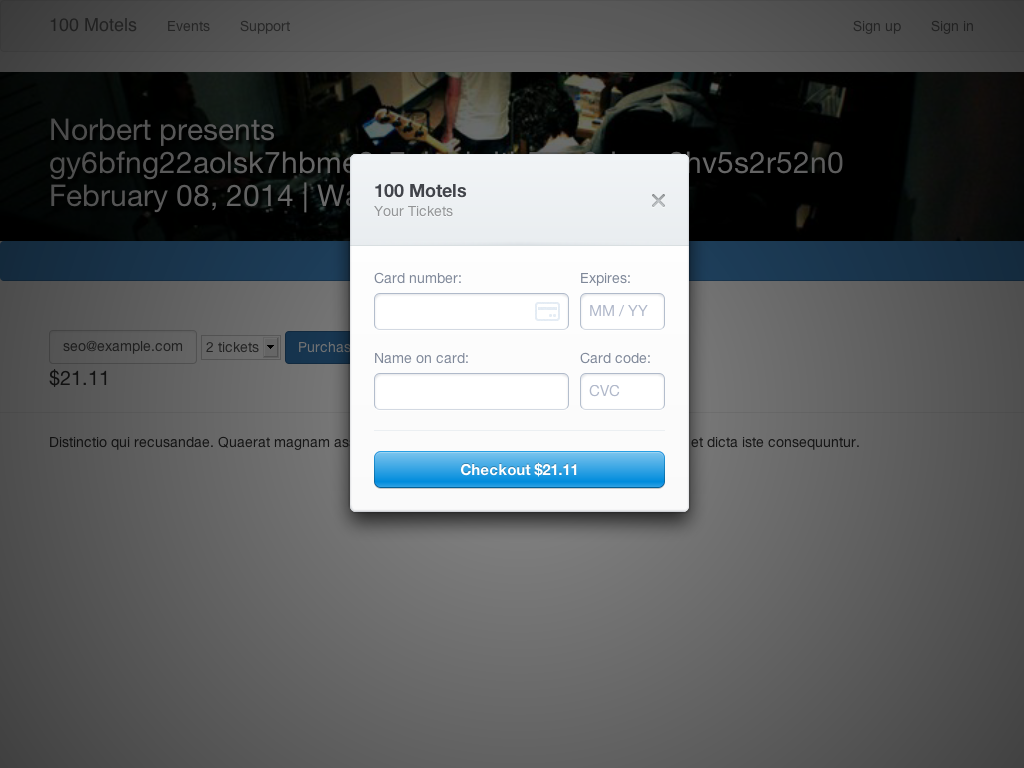
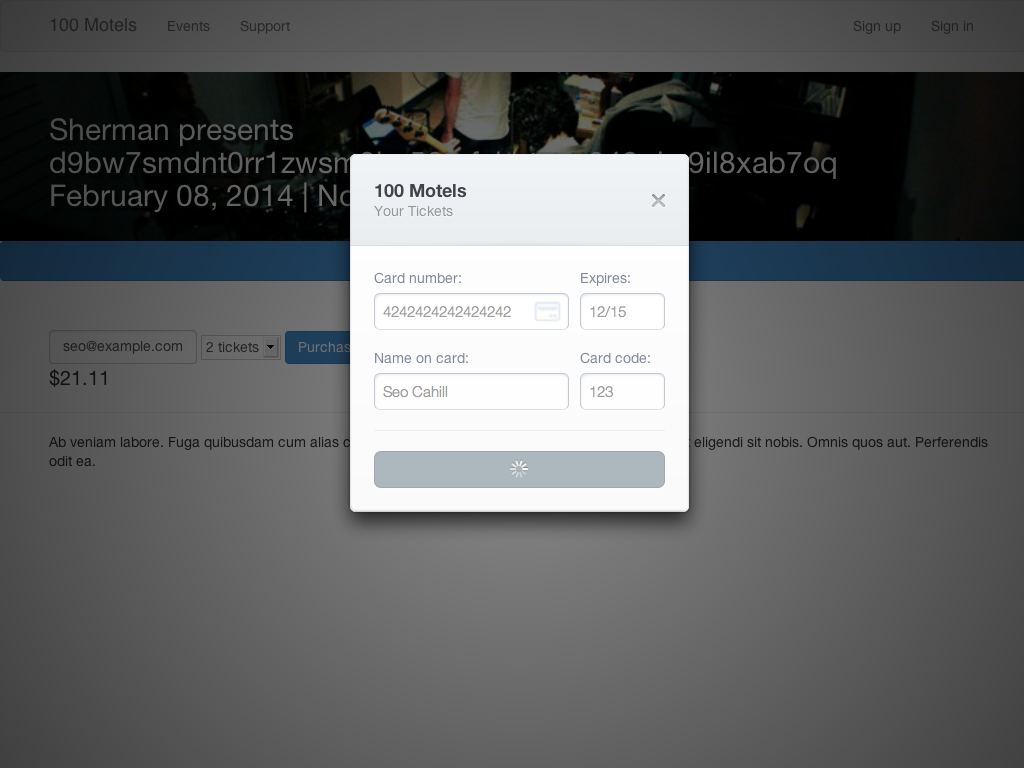
stripe iframe tests slooow but passing

diff --git a/test/features/event_show_test.rb b/test/features/event_show_test.rb
@@ -8,14 +8,6 @@ class EventShowTest < Capybara::Rails::TestCase
     @event = FactoryGirl.create(:event, :live_event, date: "08-02-2014", id: 4)
   end
 
-  test "poltergeist working" do
-    skip
-    Capybara.current_driver = Capybara.javascript_driver
-    visit event_path(@event)
-    page.save_screenshot('screenshot.png')
-    assert_equal current_path, event_path(@event)
-  end
-
   test "visible event by normal admin is visible" do
     visit event_path(@event)
     assert page.has_content?(@event.name), "event name not visible"
@@ -66,26 +58,32 @@ class EventShowTest < Capybara::Rails::TestCase
     select "2", from: "order[quantity]"
     assert page.find(".order-total").has_content?("21.11"), "order total incorrect"
     click_button "Purchase"
-    sleep(5)
-    fill_in "Card number", with: "4242424242424242"
-    fill_in "Expires", with: "12/15"
-    fill_in "Name on card", with: "Seo Cahill"
-    fill_in "Card Code", with: "123"
-    click_button "Checkout $21.11"
-    assert page.has_css?('.alert', text: "Thanks! Please check your email.")
-    assert_equal order_path(Order.last), current_path
+    within_frame(page.find('.stripe_checkout_app')[:name]) do
+      fill_in "Card number", with: "4242424242424242"
+      fill_in "Expires", with: "12/15"
+      fill_in "Name on card", with: "Seo Cahill"
+      fill_in "Card code", with: "123"
+      click_button "Checkout $21.11"
+    end
+    # page.save_screenshot('screenshot.png')
+    sleep 3
+    assert page.has_css?('.alert', text: "Thanks! Please check your email."), "no success message"
+    assert_equal order_path(Order.last), current_path, "didn't redirect to order page"
   end
 
   test "order without email" do
     Capybara.current_driver = Capybara.javascript_driver
     visit event_path(@event)
     click_button "Purchase"
-    fill_in "Card number:", with: "4242424242424242"
-    fill_in "Expires:", with: "12/15"
-    fill_in "Name on card:", with: "Seo Cahill"
-    fill_in "Card Code:", with: "123"
-    click_button "Checkout $10.71"
-    assert page.has_css?('.alert', text: "must provide email address.")
+    within_frame(page.find('.stripe_checkout_app')[:name]) do
+      fill_in "Card number", with: "4242424242424242"
+      fill_in "Expires", with: "12/15"
+      fill_in "Name on card", with: "Seo Cahill"
+      fill_in "Card code", with: "123"
+      click_button "Checkout $10.71"
+    end
+    sleep 3
+    assert page.has_css?('.alert', text: "must provide email address"), "no error message"
   end
 
   test "order with invalid credit card details" do
@@ -95,12 +93,15 @@ class EventShowTest < Capybara::Rails::TestCase
     select "2", from: "order[quantity]"
     assert page.find(".order-total").has_content?("21.11"), "order total incorrect"
     click_button "Purchase"
-    fill_in "Card number:", with: "4000000000000101"
-    fill_in "Expires:", with: "12/15"
-    fill_in "Name on card:", with: "Seo Cahill"
-    fill_in "Card Code:", with: "123"
-    click_button "Checkout $21.11"
-    assert page.has_css?('.alert', text: "The card's security code is invalid.")
+    within_frame(page.find('.stripe_checkout_app')[:name]) do
+      fill_in "Card number", with: "4000000000000101"
+      fill_in "Expires", with: "12/15"
+      fill_in "Name on card", with: "Seo Cahill"
+      fill_in "Card code", with: "123"
+      click_button "Checkout $21.11"
+    end
+    sleep 3
+    assert page.has_css?('.alert', text: "Your card's security code is incorrect.")
   end
 
   test "order pages can be reviewed by event admin only" do

diff --git a/test/models/event_test.rb b/test/models/event_test.rb
@@ -3,6 +3,7 @@ require 'test_helper'
 class EventTest < ActiveSupport::TestCase
   should belong_to(:user)
   should have_many(:orders)
+  should have_many(:tickets).through(:orders)
   should ensure_length_of(:name).is_at_most(50)
   should validate_presence_of(:name)
   should validate_presence_of(:date)
@@ -112,7 +113,12 @@ class EventTest < ActiveSupport::TestCase
   end
 
   test "auto_html soundcloud" do
-    skip 'need to user VCR or fakeweb to fake response, see gem test for details'
+    skip "need to look into gem"
+    event = FactoryGirl.build(:event)
+    VCR.use_cassette('soundcloud_embed') do
+      event.about = 'www.soundcloud.com/creteboom/sets/them-bones-need-oxygen'
+    end
+    assert_equal event.about, '<iframe width="100%" height="166" scrolling="no" frameborder="no" src="https://w.soundcloud.com/player/?url=https%3A//api.soundcloud.com/tracks/104831507"></iframe>'
   end
 
   test "auto_html resposive google map" do
@@ -125,13 +131,4 @@ class EventTest < ActiveSupport::TestCase
     assert_equal "<p><a href=\"http://vukajlija.com\" target=\"_blank\" rel=\"nofollow\">http://vukajlija.com</a></p>\n", event.about_html
   end
 
-  test "defer_events sends notification email" do
-    skip "need to set up form hash"
-    params = {}
-    order = FactoryGirl.create(:order)
-    assert_equal 0, Sidekiq::Extensions::DelayedMailer.jobs.size
-    order.event.defer_event(params)
-    assert_equal 1, Sidekiq::Extensions::DelayedMailer.jobs.size, "Emails not sent"
-    assert_equal event.date, Date.parse("27th October 2014"), "Date wasn't updated"
-  end
 end

diff --git a/app/controllers/admin/tickets_controller.rb b/app/controllers/admin/tickets_controller.rb
@@ -19,18 +19,16 @@ class Admin::TicketsController < ApplicationController
   end
 
   def check
-    @event = Event.find(params[:event_id])
-    @ticket = @event.tickets.find_by(number: params["number"])
-    if @ticket
-      if @ticket.admitted?
-        flash[:warning] = "already admitted at #{@ticket.admitted.strftime('%b %e, %l:%M %p')}"
-      else
-        @ticket.admitted = Time.now
-        @ticket.save!
-        flash[:notice] = "Admit ticket-holder"
-      end
-    else
+    event = Event.find(params[:event_id])
+    @ticket = event.tickets.find_by(number: params["number"])
+    case
+    when @ticket.nil?
       flash[:notice] = "Ticket not found"
+    when @ticket.admitted
+      flash[:warning] = "already admitted at #{@ticket.admitted.strftime('%b %e, %l:%M %p')}"
+    when !@ticket.admitted
+        @ticket.update_attributes(admitted: Time.now)
+        flash[:notice] = "Admit ticket-holder"
     end
     redirect_to admin_event_tickets_path(ticket: @ticket || "")
   end

diff --git a/app/controllers/events_controller.rb b/app/controllers/events_controller.rb
@@ -2,7 +2,7 @@ class EventsController < ApplicationController
   before_action :find_event, only: [:show]
 
   def index
-    @events = Event.where(visible: true).text_search(params[:query]).page(params[:page]).per_page(9).includes(:user) #.where("user.state = 1").references(:user)
+    @events = Event.public_events.text_search(params[:query]).page(params[:page]).per_page(9)
     @view = view_context
   end
 
@@ -32,7 +32,7 @@ private
 
   def find_event
     @event = Event.find(params[:id])
-    raise ActiveRecord::RecordNotFound unless @event.visible? or @event.user == current_user
+    raise ActiveRecord::RecordNotFound unless @event.public? or @event.user == current_user
   rescue ActiveRecord::RecordNotFound
     flash[:alert] = "The event you were looking for could not be found"
     redirect_to events_path

diff --git a/app/models/event.rb b/app/models/event.rb
@@ -13,6 +13,8 @@ class Event < ActiveRecord::Base
   has_many :orders
   has_many :tickets, through: :orders
 
+  scope :public_events, -> { where(visible: true).includes(:user).where("users.state = 1").references(:user) }
+
   include PgSearch
   pg_search_scope :search,
     against: [:name, :location, :about],
@@ -55,14 +57,12 @@ class Event < ActiveRecord::Base
     link :target => "_blank", :rel => "nofollow"
   end
 
-  def defer_event(params)
-    self.date = params[:alter_event][:date]
-    self.orders.each { |order| OrderMailer.event_deferred(order, params).deliver}
-    save!
-  end
-
   def present(view)
     EventPresenter.new(self, view)
+  end
+
+  def public?
+    self.visible? and !self.user.state_suspended?
   end
 end
 

diff --git a/app/mailers/order_mailer.rb b/app/mailers/order_mailer.rb
@@ -3,8 +3,8 @@ class OrderMailer < ActionMailer::Base
           # ,return_path: "service@example.com"
 
   def event_deferred(event_id, message)
-    @message = message.message || ""
-    @date = message.date
+    @message = message["message"] || ""
+    @date = message["date"]
     @event = Event.find(event_id)
     mail bcc: @event.orders.pending.pluck(:email), subject: "100 Motels - Event Deferred"
   end
